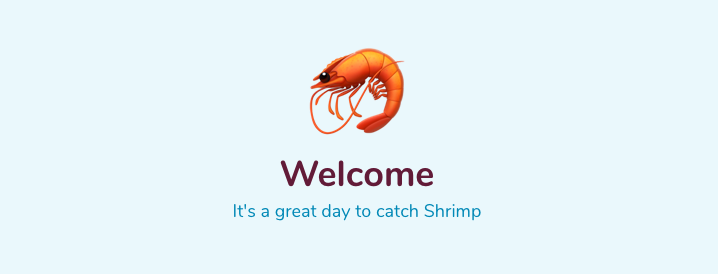
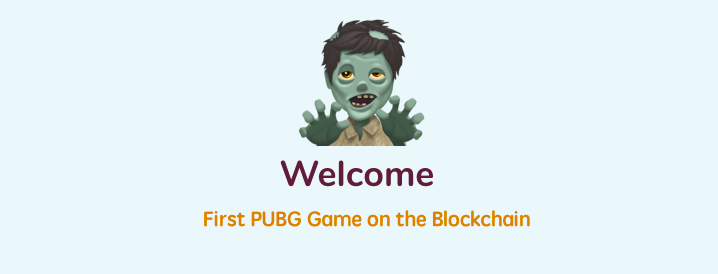
updates and early set up for the new pools for zombie
Addresses and contracts are unchanged so far

Changed region(s): [[0.3983, 0.0584, 0.6128, 0.5547], [0.2758, 0.7299, 0.7354, 0.8467]]

diff --git a/zombie-www/src/yam/lib/contracts.js b/zombie-www/src/yam/lib/contracts.js
@@ -10,7 +10,7 @@ import YAMReservesJson from '../clean_build/contracts/YAMReserves.json';
 import YAMGovJson from '../clean_build/contracts/GovernorAlpha.json';
 import YAMTimelockJson from '../clean_build/contracts/Timelock.json';
 import WETHJson from './weth.json';
-import SNXJson from './snx.json';
+// import SNXJson from './snx.json';
 import UNIFactJson from './unifact2.json';
 import UNIPairJson from './uni2.json';
 import UNIRouterJson from './uniR.json';
@@ -22,7 +22,7 @@ import UNIRouterJson from './uniR.json';
 // import BalShrimpDai95Json from '../clean_build/contracts/BalShrimpDai95.json'
 // import BalShrimpDai80Json from '../clean_build/contracts/BalShrimpDai80.json'
 
-// import COMPPoolJson from '../clean_build/contracts/YAMCOMPPool.json';
+import DAIPoolJson from '../clean_build/contracts/YAMCOMPPool.json';
 import UNIPoolJson from '../clean_build/contracts/ShrimpUniPool.json';
 import DICEPoolJson from '../clean_build/contracts/SHRIMPDICEPool.json';
 import SHRIMPPoolJson from '../clean_build/contracts/ShrimpTacoPool.json';
@@ -43,29 +43,29 @@ export class Contracts {
     this.defaultGas = options.defaultGas;
     this.defaultGasPrice = options.defaultGasPrice;
 
+    // this.yfi = new this.web3.eth.Contract(ERC20Json.abi);
+    // this.UNIAmpl = new this.web3.eth.Contract(ERC20Json.abi);
+    // this.cream = new this.web3.eth.Contract(ERC20Json.abi);
+    // this.bsd95 = new this.web3.eth.Contract(ERC20Json.abi);
+    // this.bsd80 = new this.web3.eth.Contract(ERC20Json.abi);
     this.uni_pair = new this.web3.eth.Contract(UNIPairJson);
     this.uni_router = new this.web3.eth.Contract(UNIRouterJson);
     this.uni_fact = new this.web3.eth.Contract(UNIFactJson);
-    // this.yfi = new this.web3.eth.Contract(ERC20Json.abi);
-    // this.UNIAmpl = new this.web3.eth.Contract(ERC20Json.abi);
-    // this.comp = new this.web3.eth.Contract(ERC20Json.abi);
+    this.dai = new this.web3.eth.Contract(ERC20Json.abi);
     this.dice = new this.web3.eth.Contract(ERC20Json.abi);
-    // this.cream = new this.web3.eth.Contract(ERC20Json.abi);
     this.yam = new this.web3.eth.Contract(YAMJson.abi);
     this.uni = new this.web3.eth.Contract(ERC20Json.abi);
     this.shrimp = new this.web3.eth.Contract(ERC20Json.abi);
-    // this.bsd95 = new this.web3.eth.Contract(ERC20Json.abi);
-    // this.bsd80 = new this.web3.eth.Contract(ERC20Json.abi);
 
     // this.yfi_pool = new this.web3.eth.Contract(YFIPoolJson.abi);
     // this.eth_pool = new this.web3.eth.Contract(WETHPoolJson.abi);
     // this.cream_pool = new this.web3.eth.Contract(CREAMPoolJson.abi);
-    // this.comp_pool = new this.web3.eth.Contract(COMPPoolJson.abi);
+    // this.bsd95_pool = new this.web3.eth.Contract(BalShrimpDai95Json.abi)
+    // this.bsd80_pool = new this.web3.eth.Contract(BalShrimpDai80Json.abi)
+    this.dai_pool = new this.web3.eth.Contract(DAIPoolJson.abi);
     this.dice_pool = new this.web3.eth.Contract(DICEPoolJson.abi);
     this.shrimp_pool = new this.web3.eth.Contract(SHRIMPPoolJson.abi);
     this.uni_pool = new this.web3.eth.Contract(UNIPoolJson.abi);
-    // this.bsd95_pool = new this.web3.eth.Contract(BalShrimpDai95Json.abi)
-    // this.bsd80_pool = new this.web3.eth.Contract(BalShrimpDai80Json.abi)
     this.proposal = new this.web3.eth.Contract(ProposalJson.abi);
     
     this.erc20 = new this.web3.eth.Contract(ERC20Json.abi);
@@ -90,21 +90,21 @@ export class Contracts {
     this.gov.setProvider(provider);
     this.timelock.setProvider(provider);
     const contracts = [
+      // { contract: this.eth_pool, json: WETHPoolJson },
+      // { contract: this.yfi_pool, json: YFIPoolJson },
+      // { contract: this.cream_pool, json: CREAMPoolJson },
+      // { contract: this.bsd95_pool, json: BalShrimpDai95Json},
+      // { contract: this.bsd80_pool, json: BalShrimpDai80Json},
+      // { contract: this.proposal, json: ProposalJson}
       { contract: this.yam, json: YAMJson },
       { contract: this.rebaser, json: YAMRebaserJson },
       { contract: this.reserves, json: YAMReservesJson },
       { contract: this.gov, json: YAMGovJson },
       { contract: this.timelock, json: YAMTimelockJson },
-      // { contract: this.eth_pool, json: WETHPoolJson },
-      // { contract: this.yfi_pool, json: YFIPoolJson },
-      // { contract: this.cream_pool, json: CREAMPoolJson },
       { contract: this.dice_pool, json: DICEPoolJson },
-      // { contract: this.comp_pool, json: COMPPoolJson },
+      { contract: this.dai_pool, json: DAIPoolJson },
       { contract: this.uni_pool, json: UNIPoolJson },
       { contract: this.shrimp_pool, json: SHRIMPPoolJson},
-      // { contract: this.bsd95_pool, json: BalShrimpDai95Json},
-      // { contract: this.bsd80_pool, json: BalShrimpDai80Json},
-      // { contract: this.proposal, json: ProposalJson}
     ]
 
     contracts.forEach(contract => this.setContractProvider(
@@ -116,27 +116,27 @@ export class Contracts {
     );
     // this.yfi.options.address = addressMap["YFI"];
     // this.weth.options.address = addressMap["WETH"];
-    // this.comp.options.address = addressMap["COMP"];
-    this.shrimp.options.address = addressMap["TACO"];
     // this.bsd95.options.address = addressMap["BSD95"];
     // this.bsd80.options.address = addressMap["BSD80"];
-    this.dice.options.address = addressMap["DICE"];
     // this.cream.options.address = addressMap["CREAM"];
+    // this.shrimp_scrv_uni_lp.options.address = addressMap["SHRIMPsCRV"];
+    this.dai.options.address = addressMap["DAI"];
+    this.dice.options.address = addressMap["DICE"];
+    this.shrimp.options.address = addressMap["SHRIMP"];
     this.uni.options.address = addressMap["UNI"];
     this.uni_fact.options.address = addressMap["uniswapFactoryV2"];
     this.uni_router.options.address = addressMap["UNIRouter"];
-    // this.shrimp_scrv_uni_lp.options.address = addressMap["SHRIMPsCRV"];
 
     this.pools = [
       // {"tokenAddr": this.yfi.options.address, "poolAddr": this.yfi_pool.options.address},
       // {"tokenAddr": this.weth.options.address, "poolAddr": this.eth_pool.options.address},
-      // {"tokenAddr": this.comp.options.address, "poolAddr": this.comp_pool.options.address},
-      {"tokenAddr": this.dice.options.address, "poolAddr": this.dice_pool.options.address},
       // {"tokenAddr": this.cream.options.address, "poolAddr": this.cream_pool.options.address},
-      {"tokenAddr": this.uni.options.address, "poolAddr": this.uni_pool.options.address},
-      {"tokenAddr": this.shrimp.options.address, "poolAddr": this.shrimp_pool.options.address},
       // {"tokenAddr": this.bsd95.options.address, "poolAddr": this.bsd95_pool.options.address},
       // {"tokenAddr": this.bsd80.options.address, "poolAddr": this.bsd80_pool.options.address},
+      {"tokenAddr": this.dai.options.address, "poolAddr": this.dai_pool.options.address},
+      {"tokenAddr": this.dice.options.address, "poolAddr": this.dice_pool.options.address},
+      {"tokenAddr": this.shrimp.options.address, "poolAddr": this.shrimp_pool.options.address},
+      {"tokenAddr": this.uni.options.address, "poolAddr": this.uni_pool.options.address},
     ]
   }
 
@@ -144,15 +144,15 @@ export class Contracts {
     account
   ) {
     // this.yfi.options.from = account;
-    // this.dice.options.from = account;
     // this.cream.options.from = account;
-    this.yam.options.from = account;
-    // this.comp.options.from = account;
     // this.weth.options.from = account;
-    this.uni.options.from = account;
-    this.shrimp.options.from = account;
     // this.bsd95.options.from = account;
     // this.bsd80.options.from = account;
+    this.dai.options.from = account;
+    this.dice.options.from = account;
+    this.shrimp.options.from = account;
+    this.uni.options.from = account;
+    this.yam.options.from = account;
   }
 
   async callContractFunction(

diff --git a/zombie-www/public/index.html b/zombie-www/public/index.html
@@ -4,9 +4,9 @@
 <head>
     <meta charset="utf-8" />
     <link rel="icon" href="%PUBLIC_URL%/favicon.ico" />
+    <title>Zombie Finance - A social experiment game!</title>
     <meta name="viewport" content="width=device-width, initial-scale=1" />
     <meta name="theme-color" content="#000000" />
-    <meta name="description" content="For the SHRIMP(ing) community." />
     <link rel="apple-touch-icon" href="%PUBLIC_URL%/logo192.png" />
     <!--
       manifest.json provides metadata used when your web app is installed on a
@@ -14,10 +14,13 @@
     -->
     <link rel="manifest" href="%PUBLIC_URL%/manifest.json" />
     <link href="https://fonts.googleapis.com/css2?family=Nunito:wght@400;700&display=swap" rel="stylesheet">
-    <meta name="twitter:image" content="https://shrimp.finance/hero.png" />
-    <meta name="twitter:description" content="SHRIMP(ing) community is the biggest Gem DAO in ethereum, once your coin is listed in the Advanced pools, it will be over the moon. Everyone has 5% Shrimp and willing burn 1% Shrimp can list your Advanced pools for a week." />
-    <meta name="twitter:card" content="summary" />
-    <meta name="twitter:title" content="SHRIMP - First Gem DAO Community." />
+    <meta name="title" content="Zombie Finance - A social experiment game!">
+    <meta name="description" content="Zombie is a social experiment game, you can see the true side of humanity only at the moment of domination. You only need 1 $BTC and 1 $ZOMBIE when the world is going to end. Zombie is designed to see the true face of your friend and if you understand the rules, you can play to the end.">
+
+    <meta name="twitter:image" content="https://zombie.finance/hero.png"/>
+    <meta name="twitter:description" content="Zombie Finance - First PUBG Game on the Blockchain"/>
+    <meta name="twitter:card" content="summary"/>
+    <meta name="twitter:title" content="Zombie.FINANCE"/>
     <!-- Global site tag (gtag.js) - Google Analytics -->
     <script async src="https://www.googletagmanager.com/gtag/js?id=UA-175287457-1"></script>
     <script>
@@ -29,7 +32,6 @@
     gtag('js', new Date());
     gtag('config', 'UA-175287457-1');
     </script>
-    <title>Shrimp.Finance - First Gem DAO for ethereum community.</title>
 </head>
 
 <body>

diff --git a/zombie-www/src/yam/lib/constants.js b/zombie-www/src/yam/lib/constants.js
@@ -26,13 +26,14 @@ export const INTEGERS = {
 export const addressMap = {
   uniswapFactory : "0xc0a47dFe034B400B47bDaD5FecDa2621de6c4d95",
   uniswapFactoryV2: "0x5C69bEe701ef814a2B6a3EDD4B1652CB9cc5aA6f",
-  YFI : "0x0bc529c00C6401aEF6D220BE8C6Ea1667F6Ad93e",
-  CREAM: "0x2ba592F78dB6436527729929AAf6c908497cB200",
-  WETH : "0xc02aaa39b223fe8d0a0e5c4f27ead9083c756cc2",
-  UNIRouter : "0x7a250d5630B4cF539739dF2C5dAcb4c659F2488D",
-  DICE: "0xCF67CEd76E8356366291246A9222169F4dBdBe64",
-  COMP: "0xc00e94Cb662C3520282E6f5717214004A7f26888",
-  UNI: "0xeba5d22bbeb146392d032a2f74a735d66a32aee4",
-  TACO: "0x00D1793D7C3aAE506257Ba985b34C76AaF642557",
+  // YFI : "0x0bc529c00C6401aEF6D220BE8C6Ea1667F6Ad93e",
+  // CREAM: "0x2ba592F78dB6436527729929AAf6c908497cB200",
+  // WETH : "0xc02aaa39b223fe8d0a0e5c4f27ead9083c756cc2",
+  // UNIRouter : "0x7a250d5630B4cF539739dF2C5dAcb4c659F2488D",
+  // COMP: "0xc00e94Cb662C3520282E6f5717214004A7f26888",
   // SHRIMPSCRV: "0x2C7a51A357d5739C5C74Bf3C96816849d2c9F726",
+  DAI: "0x2C7a51A357d5739C5C74Bf3C96816849d2c9F726",
+  DICE: "0xCF67CEd76E8356366291246A9222169F4dBdBe64",
+  SHRIMP: "0x00D1793D7C3aAE506257Ba985b34C76AaF642557",
+  UNI: "0xeba5d22bbeb146392d032a2f74a735d66a32aee4"
 }

diff --git a/zombie-www/src/views/Farms/components/FarmCards.tsx b/zombie-www/src/views/Farms/components/FarmCards.tsx
@@ -100,14 +100,14 @@ const FarmCard: React.FC<FarmCardProps> = ({ farm }) => {
                 <StyledDetail>Deposit {farm.depositToken.toUpperCase()}</StyledDetail>
                 <StyledDetail>Earn {farm.earnToken.toUpperCase()}</StyledDetail>
               </StyledDetails>
-              {Date.now() > endTime * 1000 ? (
-                <>
+              {/* {Date.now() > endTime * 1000 ? (
+                <> */}
                   <Button
                     disabled={!poolActive}
-                    text={poolActive ? 'Remove Liquidity' : undefined}
+                    text={poolActive ? 'Select' : undefined}
                     to={`/farms/${farm.id}`}
                   />
-                </>
+                {/* </>
               )
                 : (<>
                   <a href={`/farms/${farm.id}`} style={{ textDecoration: 'none', width: '100%' }}>
@@ -129,7 +129,7 @@ const FarmCard: React.FC<FarmCardProps> = ({ farm }) => {
                     </Button>
                   </a>
                 </>
-                )}
+                )} */}
             </StyledContent>
           </CardContent>
         </Card>

diff --git a/zombie-www/src/contexts/Farms/Farms.tsx b/zombie-www/src/contexts/Farms/Farms.tsx
@@ -17,8 +17,9 @@ const NAME_FOR_POOL: { [key: string]: string } = {
   // cream_pool: 'Modgie streams',
   // comp_pool: 'Compounding Hills',
   dice_pool: 'Safe Haven',
-  uni_pool: 'WETH_SHRIMP_UNI_LP',
-  shrimp_pool: 'Undead shrimps'
+  uni_pool: 'DAI_SHRIMP_UNI_LP',
+  shrimp_pool: 'Undead shrimps',
+  dai_pool: 'Dai another day'
   // taco_pool: 'Taco Tuesday'
 }
 
@@ -31,8 +32,8 @@ const ICON_FOR_POOL: { [key: string]: string } = {
   // comp_pool: '💸',
   dice_pool: '🎲',
   uni_pool: '🌈',
-  shrimp_pool: '🦐'
-
+  shrimp_pool: '🦐',
+  dai_pool: '🛡'
   // taco_pool: '🌮',
 }
 
@@ -46,7 +47,8 @@ const SORT_FOR_POOL: { [key: string]: number } = {
   // comp_pool: 6,
   dice_pool: 0,
   uni_pool: 1,
-  shrimp_pool: 2
+  shrimp_pool: 2,
+  dai_pool: 3
 }
 
 const Farms: React.FC = ({ children }) => {

diff --git a/zombie-www/src/components/Modal/Modal.tsx b/zombie-www/src/components/Modal/Modal.tsx
@@ -25,7 +25,7 @@ const Modal: React.FC = ({ children }) => {
 
 const StyledModal = styled.div`
   border-radius: 12px;
-  box-shadow: 24px 24px 48px -24px ${props => props.theme.color.grey[600]};
+  box-shadow: 24px 24px 48px -24px ${props => props.theme.color.grey[500]};
   position: relative;
 `
 

diff --git a/zombie-www/src/theme/colors.ts b/zombie-www/src/theme/colors.ts
@@ -17,6 +17,6 @@ export const grey = {
   300: '#e2cfd5',
   400: '#0d87b3',
   500: '#0a688a',
-  600: '#5B2639', 
+  600: '#5b2e26', 
   800: '#2D121B',
 }
